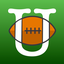
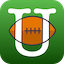
Integrated Hot Local Food into the website
The app goes live on iOS tomorrow - 01/26/2023

diff --git a/src/routes/projects/+page.svelte b/src/routes/projects/+page.svelte
@@ -4,7 +4,9 @@
 	import ResizableImage from '$lib/components/ResizableImage.svelte'
 	
 	import bmcLogo from '$lib/assets/site-images/bmc-button.png'
-	import outrankIcon from '$lib/assets/site-images/outrank/outrank-icon.png'
+	import hlfIcon from '$lib/assets/site-images/hot-local-food/hlf-icon.png'
+	import hlfPrimary from '$lib/assets/site-images/hot-local-food/hlf-primary-light.png'
+	import outrankIcon from '$lib/assets/site-images/outrank/outrank-icon-rounded.png'
 	import outrankRankings from '$lib/assets/site-images/outrank/outrank-rankings.png'
 	import outrankDetail from '$lib/assets/site-images/outrank/outrank-detail.png'
 	import outrankCompare from '$lib/assets/site-images/outrank/outrank-compare.png'
@@ -48,6 +50,41 @@
 			<img src={bmcLogo} alt="Buy Me a Coffee button" loading="lazy" decoding="async" class="rounded-3xl" />
 		</a>
 	</div>
+	
+	<hr class="mb-8" />
+	
+	<Header text="Hot Local Food"/>
+	
+	<div class="flex items-stretch mb-4">
+		<ResizableImage src={hlfIcon} altText="Hot Local Food's app icon" url="https://apps.apple.com/us/app/hot-local-food/id1621818779"/>
+	</div>
+	
+	<p class="mb-4">Think Tinder, but for food, and it already likes you back. Say hello to <b>Hot Local Food</b>. Free, hot, and available on iOS 15 and newer.</p>
+	
+	<p class="mb-4">Want something to eat or drink but don't know where to go? Want to explore the local scene nearby or far away? Just want to look at some good pictures of good food? Hot Local Food is there for you.</p>
+	
+	<p class="mb-4">With a photo-heavy, Tinder-style swipe interface, an extensive library of restaurants powered by <a href="https://fusion.yelp.com/" target="_blank" rel="noreferrer">Yelp</a>, and slick features built on top, Hot Local Food will help you find exactly what you need.</p>
+	
+	<ResizableImage src={hlfPrimary} altText="Hot Local Food screenshots" url="https://apps.apple.com/us/app/hot-local-food/id1621818779"/>
+	
+	<br />
+	
+	<p>Features:</p>
+	<ul class="list-disc ml-8 mb-4">
+		<li>When you’re out, see restaurants nearby and swipe until you find your perfect match</li>
+		<li>Traveling somewhere? Get to know what’s good by swiping in the area you plan to visit</li>
+		<li>Filter by price, location, and categories</li>
+		<li>Create custom lists to save places for later</li>
+		<li>Access quick shortcuts to make reservations, order delivery or pickup, and find directions</li>
+	</ul>
+	
+	<p class="mb-4">For vegans, carnivores, and everyone in between, Hot Local Food is the best place to find what you love, so you can eat it.</p>
+	
+	<p class="mb-4">Hot Local Food is built with 100% <a href="https://developer.apple.com/xcode/swiftui/" target="_blank" rel="noreferrer">SwiftUI</a>, and it uses <a href="https://developer.apple.com/icloud/cloudkit/" target="_blank" rel="noreferrer">CloudKit</a> as a back end to enable syncing between iOS devices.</p>
+	
+	<p class="mb-8">You can follow <a href="https://twitter.com/HotLocalFood" target="_blank" rel="noreferrer">Hot Local Food on Twitter</a>, check out its <a href="https://www.hotlocalfood.app" target="_blank" rel="noreferrer">marketing website</a>, or read my <a href="/blog/hot-local-food/" rel="noreferrer">blog post</a> about building it.</p>
+	
+	<a class="mb-8" href="https://apps.apple.com/us/app/hot-local-food/id1621818779" target="_blank" rel="noreferrer" style="display:inline-block;overflow:hidden;background:url(https://linkmaker.itunes.apple.com/assets/shared/badges/en-us/appstore-lrg.svg) no-repeat;width:270px;height:80px;background-size:contain;"></a>
 
 	<hr class="mb-8" />
 

diff --git a/src/lib/components/Sidebar.svelte b/src/lib/components/Sidebar.svelte
@@ -12,6 +12,7 @@
     ArrowUpRightIcon
   } from 'svelte-feather-icons'
   
+  import hlfIcon from '$lib/assets/site-images/hot-local-food/hlf-64.png'
   import outrankIcon from '$lib/assets/site-images/outrank/outrank-64.png'
   import catchupIcon from '$lib/assets/site-images/catchup/catchup-64.png'
   import hurricastIcon from '$lib/assets/site-images/hurricast/hurricast-icon.jpg'
@@ -32,6 +33,7 @@
   ]
   
   const myProjects = [
+    { href: 'https://apps.apple.com/us/app/hot-local-food/id1621818779', label: 'HLF' },
     { href: 'https://apps.apple.com/us/app/outrank/id1588983785', label: 'Outrank' },
     { href: 'https://apps.apple.com/us/app/catchup-keep-in-touch/id1358023550', label: 'CatchUp' },
     { href: 'https://podcasts.apple.com/us/podcast/the-golden-hurricast/id1435008302?mt=2', label: 'Hurricast' },
@@ -154,7 +156,9 @@
           <a href={navItem.href} target="_blank" rel="noreferrer" on:click={() => updateSelectedPageAndToggleSidebar(navItem.label)} class="flex items-center px-4 py-1 text-gray-500 dark:text-gray-300">
             <div class="flex hover:bg-slate-300 hover:dark:bg-slate-600 hover:dark:text-gray-300 {isCurrentPage(navItem.label) ? selectedBackground : normalBackground}">
               <div class="mr-3 mt-0.5">
-                {#if navItem.label === 'Outrank'}
+                {#if navItem.label === 'HLF'}
+                  <img src={hlfIcon} alt="Hot Local Food app icon" loading="lazy" decoding="async" class="rounded w-11 -mr-2.5" />
+                {:else if navItem.label === 'Outrank'}
                   <img src={outrankIcon} alt="Outrank app icon" loading="lazy" decoding="async" class="rounded w-11" />
                 {:else if navItem.label === 'CatchUp'}
                   <img src={catchupIcon} alt="CatchUp app icon" loading="lazy" decoding="async" class="rounded w-11" />
@@ -268,7 +272,9 @@
         <a href={navItem.href} target="_blank" rel="noreferrer" on:click={() => updateSelectedPage(navItem.label)} class="flex items-center px-4 py-1 text-gray-500 dark:text-gray-300">
           <div class="flex hover:bg-slate-300 hover:dark:bg-slate-600 hover:dark:text-gray-300 {isCurrentPage(navItem.label) ? selectedBackground : normalBackground}">
             <div class="mr-3 mt-0.5">
-              {#if navItem.label === 'Outrank'}
+              {#if navItem.label === 'HLF'}
+                <img src={hlfIcon} alt="Hot Local Food app icon" loading="lazy" decoding="async" class="rounded w-11 -mr-2.5" />
+              {:else if navItem.label === 'Outrank'}
                 <img src={outrankIcon} alt="Outrank app icon" loading="lazy" decoding="async" class="rounded w-11" />
               {:else if navItem.label === 'CatchUp'}
                 <img src={catchupIcon} alt="CatchUp app icon" loading="lazy" decoding="async" class="rounded w-11" />

diff --git a/src/routes/about/+page.svelte b/src/routes/about/+page.svelte
@@ -4,9 +4,9 @@
   import ResizableImage from '$lib/components/ResizableImage.svelte'
   
   import profileImage from '$lib/assets/site-images/profile.jpg'
-  import outrankIcon from '$lib/assets/site-images/outrank/outrank-icon.png'
-  import hurricastIcon from '$lib/assets/site-images/hurricast/hurricast-icon.jpg'
-  import catchupIcon from '$lib/assets/site-images/catchup/catchup-icon.png'
+  import hlfIcon from '$lib/assets/site-images/hot-local-food/hlf-icon.png'
+  import outrankIcon from '$lib/assets/site-images/outrank/outrank-icon-rounded.png'
+  import hurricastIcon from '$lib/assets/site-images/hurricast/hurricast-icon-rounded.png'
 </script>
 
 <svelte:head>
@@ -42,13 +42,13 @@
   </p>
 
   <p class="mb-4">
-    My latest projects include <a href="https://apps.apple.com/us/app/outrank/id1588983785" target="_blank" rel="noreferrer">Outrank for iOS and iPadOS</a>, <a href="https://thegoldenhurricast.com" target="_blank" rel="noreferrer">The Golden Hurricast</a>, and <a href="https://apps.apple.com/us/app/catchup-keep-in-touch/id1358023550" target="_blank" rel="noreferrer">CatchUp for iOS</a>.
+    My latest projects include <a href="https://apps.apple.com/us/app/hot-local-food/id1621818779" target="_blank" rel="noreferrer">Hot Local Food for iOS</a>, <a href="https://thegoldenhurricast.com" target="_blank" rel="noreferrer">The Golden Hurricast</a>, and <a href="https://apps.apple.com/us/app/outrank/id1588983785" target="_blank" rel="noreferrer">Outrank for iOS and iPadOS</a>.
   </p>
 
   <div class="flex items-stretch mb-4">
-    <ResizableImage src={outrankIcon} altText="Outrank's app icon" url="https://apps.apple.com/us/app/outrank/id1588983785"/>
+    <ResizableImage src={hlfIcon} altText="Hot Local Food's app icon" url="https://apps.apple.com/us/app/hot-local-food/id1621818779"/>
     <ResizableImage src={hurricastIcon} altText="The Golden Hurricast's logo" url="https://thegoldenhurricast.com"/>
-    <ResizableImage src={catchupIcon} altText="CatchUp's app icon" url="https://apps.apple.com/us/app/catchup-keep-in-touch/id1358023550"/>
+    <ResizableImage src={outrankIcon} altText="Outrank's app icon" url="https://apps.apple.com/us/app/outrank/id1588983785"/>
   </div>
 
   <p class="mb-4">

diff --git a/src/routes/+page.svelte b/src/routes/+page.svelte
@@ -32,11 +32,11 @@
 </p>
 
 <p class="text-gray-600 dark:text-gray-400 mb-4">
-	I'm <a href="https://ryan-token-cv-prod.s3.us-east-2.amazonaws.com/Ryan+Token+CV.pdf" target="_blank" rel="noreferrer">currently</a> a full-stack software engineer at <a href="https://new.trystoryboard.com" target="_blank" rel="noreferrer">Storyboard</a>. My primary focus there is on <a href="https://www.serverless.com/framework" target="_blank" rel="noreferrer">serverless web development</a>, but I build software that touches every part of the company.
+	I'm <a href="https://ryan-token-cv-prod.s3.us-east-2.amazonaws.com/Ryan+Token+CV.pdf" target="_blank" rel="noreferrer">currently</a> the lead full-stack software engineer at <a href="https://new.trystoryboard.com" target="_blank" rel="noreferrer">Storyboard</a>. My primary focus there is on <a href="https://aws.amazon.com/serverless/" target="_blank" rel="noreferrer">serverless cloud development</a>, but I build software that touches every part of the company.
 </p>
 
 <p class="text-gray-600 dark:text-gray-400 mb-6">
-	In my free time, I build native iOS apps (<a href="https://apps.apple.com/us/app/outrank/id1588983785" target="_blank" rel="noreferrer">Outrank</a> and <a href="https://apps.apple.com/us/app/catchup-keep-in-touch/id1358023550" target="_blank" rel="noreferrer">CatchUp</a>) and co-host <a href="https://thegoldenhurricast.com" target="_blank" rel="noreferrer">The Golden Hurricast</a>, a weekly podcast covering athletics at The University of Tulsa.
+	In my free time, I build native iOS apps (<a href="https://apps.apple.com/us/app/hot-local-food/id1621818779" target="_blank" rel="noreferrer">Hot Local Food</a>, <a href="https://apps.apple.com/us/app/outrank/id1588983785" target="_blank" rel="noreferrer">Outrank</a>, and <a href="https://apps.apple.com/us/app/catchup-keep-in-touch/id1358023550" target="_blank" rel="noreferrer">CatchUp</a>) and co-host <a href="https://thegoldenhurricast.com" target="_blank" rel="noreferrer">The Golden Hurricast</a>, a weekly podcast covering athletics at The University of Tulsa.
 </p>
 
 <h1 class="text-xl font-bold mb-6">Latest blog posts</h1>

diff --git a/src/routes/blog/hot-local-food.md b/src/routes/blog/hot-local-food.md
@@ -1,0 +1,73 @@
+---
+title: Hot Local Food for iOS
+description: It's like Tinder, but for food, and it already likes you back.
+date: 2023-01-26
+imagePath: /blog-images/hot-local-food/hlf-icon-square.png
+imageAlt: Hot Local Food App Icon for iOS
+tags:
+- iOS
+- swift
+- swiftui
+---
+
+<script>
+	import ResizableIcon from '$lib/components/ResizableIcon.svelte'
+	import ResizableImage from '$lib/components/ResizableImage.svelte'
+</script>
+
+Think Tinder, but for food, and it already likes you back. Say hello to **Hot Local Food**. Free, hot, and available on iOS 15 and newer.
+
+<ResizableIcon src="/blog-images/hot-local-food/hlf-icon-rounded.png" altText="Outrank's app icon" url="https://apps.apple.com/us/app/hot-local-food/id1621818779" />
+
+***Find love, then eat it***
+
+Want something to eat or drink but don't know where to go? Want to explore the local scene nearby or far away? Just want to look at some good pictures of good food? Hot Local Food is there for you.
+
+With a photo-heavy, Tinder-style swipe interface, an extensive library of restaurants powered by <a href="https://fusion.yelp.com/" target="_blank" rel="noreferrer">Yelp</a>, and slick features built on top, Hot Local Food will help you find exactly what you need.
+
+<ResizableImage src="/blog-images/hot-local-food/hlf-primary-light.png" altText="UI Screenshots for Hot Local Food" />
+
+Features:
+* High-quality photos of each location (powered by Yelp)
+* Filter places by category, price, and location
+* Save places for later by adding them to a custom list
+* Quick shortcuts to make reservations (<a href="https://www.opentable.com/" target="_blank" rel="noreferrer">OpenTable</a>), order delivery or pickup (<a href="https://www.doordash.com/" target="_blank" rel="noreferrer">DoorDash</a> and <a href="https://www.ubereats.com" target="_blank" rel="noreferrer">Uber Eats</a>), and find directions (<a href="https://www.apple.com/maps/" target="_blank" rel="noreferrer">Apple Maps</a>)
+* Easy access to information about the place, including its phone number, address, hours, and whether or not it's currently open
+
+Personally, I've gotten the most use out of the location filter.
+
+<ResizableIcon src="/blog-images/hot-local-food/hlf-location-light.png" altText="Location Filter screen for Hot Local Food" />
+
+It's a simple map for v1.0 of the app, and will likely be expanded upon, but the ability to pan around the map to see what's available in places I'm interested in has been invaluable.
+
+My wife and I recently moved to Denver. Before moving we used the app to check out fun bars and restaurants close to where we would be living and in the surrounding areas. It was a fun exercise and we've repeated it when getting ready to travel for weddings, vacations, and other trips. We also often use it on an average weekday when we want to go out somewhere.
+
+Building this app has been a labor of love by me and a good friend – Carter Krafft. Carter has been the driver behind the idea and the overall concept, while I've done the implementation work and taken some creative liberties with the design. It has been a blast to build, and we hope you get as much out of it as we have.
+
+Technical notes and privacy:
+* 100% of Hot Local Food is written in Swift and SwiftUI
+* I do not store ***any*** of your data on my servers
+* I do use iCloud to sync your saved Lists and swipes data between iOS devices
+* The free version of the app uses <a href="https://developers.google.com/admob/ios/data-disclosure" target="_blank" rel="noreferrer">Google AdMob</a>, which collects some very basic data - you can pay to remove the ads
+
+<br />
+
+<a href="https://apps.apple.com/us/app/hot-local-food/id1621818779" target="_blank" rel="noreferrer" style="display:inline-block;overflow:hidden;background:url(https://linkmaker.itunes.apple.com/assets/shared/badges/en-us/appstore-lrg.svg) no-repeat;width:270px;height:80px;background-size:contain;" />
+
+<br /> <br /> <br />
+
+## Personal Notes
+
+If you're still here, hello there! This is just a bit more background on how the app came to be.
+
+As is tradition, after launching <a href="https://apps.apple.com/us/app/outrank/id1588983785" target="_blank" rel="noreferrer">Outrank for iOS</a> in October of 2021, I moved away from iOS development for a while. This is not new behavior for me. I try to stay active in three areas of software development: iOS, front-end web, and back-end web; but I can only focus on two at a time. I'm always active in back-end web because that's what I focus on for work, but then I have to choose which one to spend my free time on: front-end web or iOS. So, naturally, once Outrank for iOS was out and stable, it was time to re-up my front-end skills. That led to <a href="/blog/nuxt-3-vs-sveltekit" rel="norefferer">rewriting my website in SvelteKit (and also Nuxt 3?)</a>.
+
+But iOS came calling again, as it always does. This time in the form of one of my very good friends. Carter and I went to college together and still frequently bounce ideas off one another. One of those ideas was a "Tinder for food" app. The initial idea came at a bar over three years ago when Carter and I, as well as another one of our friends (Matt Rechtien), were talking about app ideas.
+
+Three years, two app icons, one pandemic, and multiple starts and stops later - we have our app. It's all SwiftUI, it's clean and straightforward, it's not (currently) expensive to run, and it's ready for the world. I'm so excited about it.
+
+We'd love it if you tried it out. If you do, and you have feedback - positive or negative - we'd be honored to hear from you. Please <a href="mailto:hotlocalfood@gmail.com?subject=Blog Post Feedback - Hot Local Food" target="_blank" rel="noreferrer">email us</a>.
+
+<br />
+
+<a href="https://apps.apple.com/us/app/hot-local-food/id1621818779" target="_blank" rel="noreferrer" style="display:inline-block;overflow:hidden;background:url(https://linkmaker.itunes.apple.com/assets/shared/badges/en-us/appstore-lrg.svg) no-repeat;width:270px;height:80px;background-size:contain;" />

diff --git a/src/routes/blog/introducing-outrank.md b/src/routes/blog/introducing-outrank.md
@@ -14,7 +14,7 @@ tags:
 	import ResizableImage from '$lib/components/ResizableImage.svelte'
 	import ResizableIcon from '$lib/components/ResizableIcon.svelte'
 	
-	import outrankIcon from '$lib/assets/site-images/outrank/outrank-icon.png'
+	import outrankIcon from '$lib/assets/site-images/outrank/outrank-icon-rounded.png'
 	import outrankRankings from '$lib/assets/site-images/outrank/outrank-rankings.png'
 	import outrankDetail from '$lib/assets/site-images/outrank/outrank-detail.png'
 	import outrankCompare from '$lib/assets/site-images/outrank/outrank-compare.png'

diff --git a/src/routes/blog/dynamic-ephemeral-storage-lambda.md b/src/routes/blog/dynamic-ephemeral-storage-lambda.md
@@ -1,6 +1,6 @@
 ---
 title: Dynamic Ephemeral Storage
-description: A repost to an article I published on the Storyboard Dev Blog.
+description: Serverless Compute with Dynamic Ephemeral Storage.
 date: 2022-06-10
 imagePath: /blog-images/dynamic-ephemeral-storage/cover.png
 imageAlt: A custom diagram showcasing dynamic ephemeral storage with lambda

diff --git a/src/routes/blog/nuxt-3-vs-sveltekit.md b/src/routes/blog/nuxt-3-vs-sveltekit.md
@@ -1,6 +1,6 @@
 ---
 title: Nuxt 3 vs SvelteKit
-description: Choosing between Nuxt 3 and SvelteKit for ryantoken.com v3
+description: Choosing between Nuxt 3 and SvelteKit for ryantoken.com v3.
 date: 2022-10-24
 imagePath: /blog-images/nuxt-3-vs-sveltekit/cover.png
 imageAlt: Nuxt 3 logo vs the SvelteKit logo
